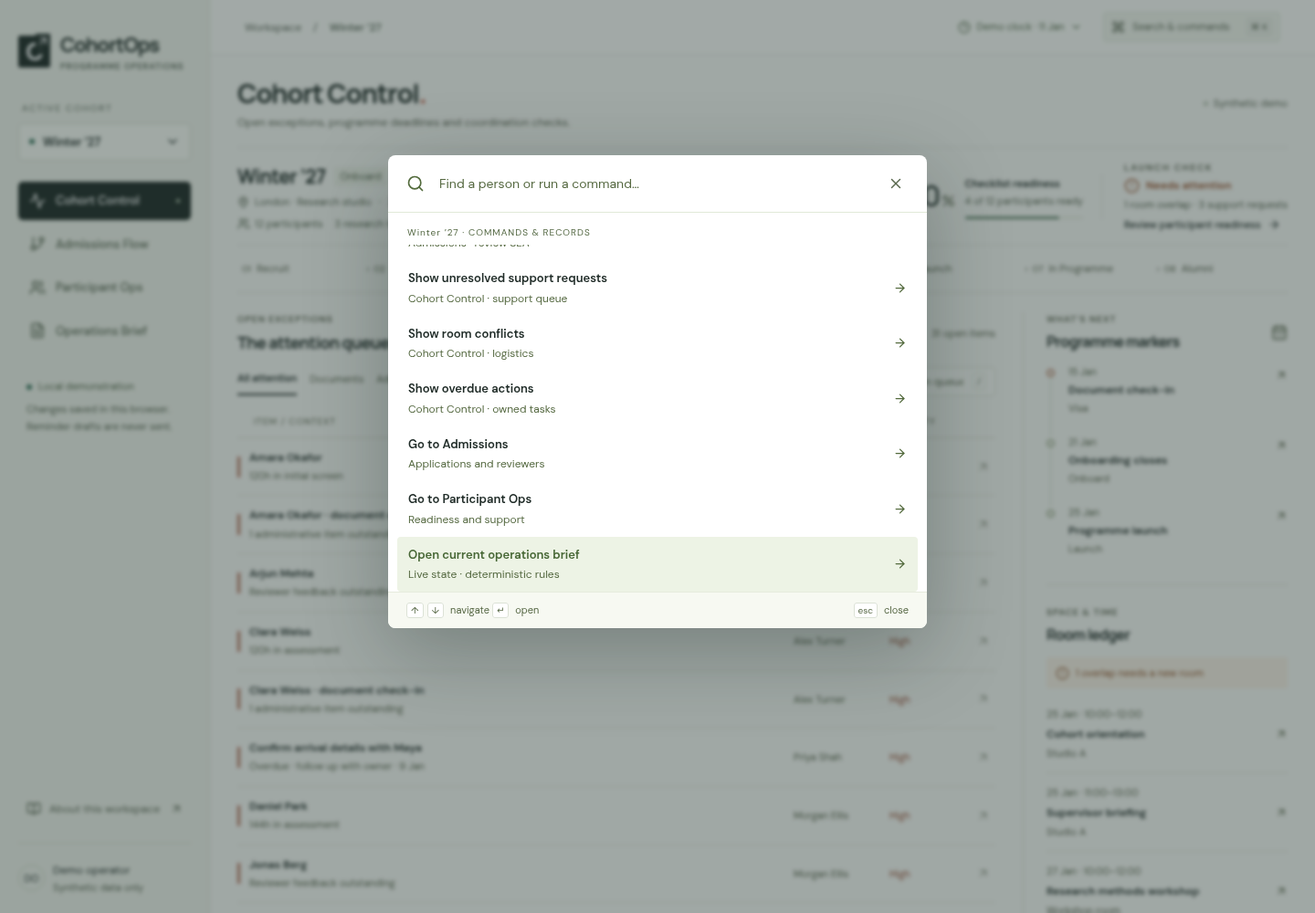
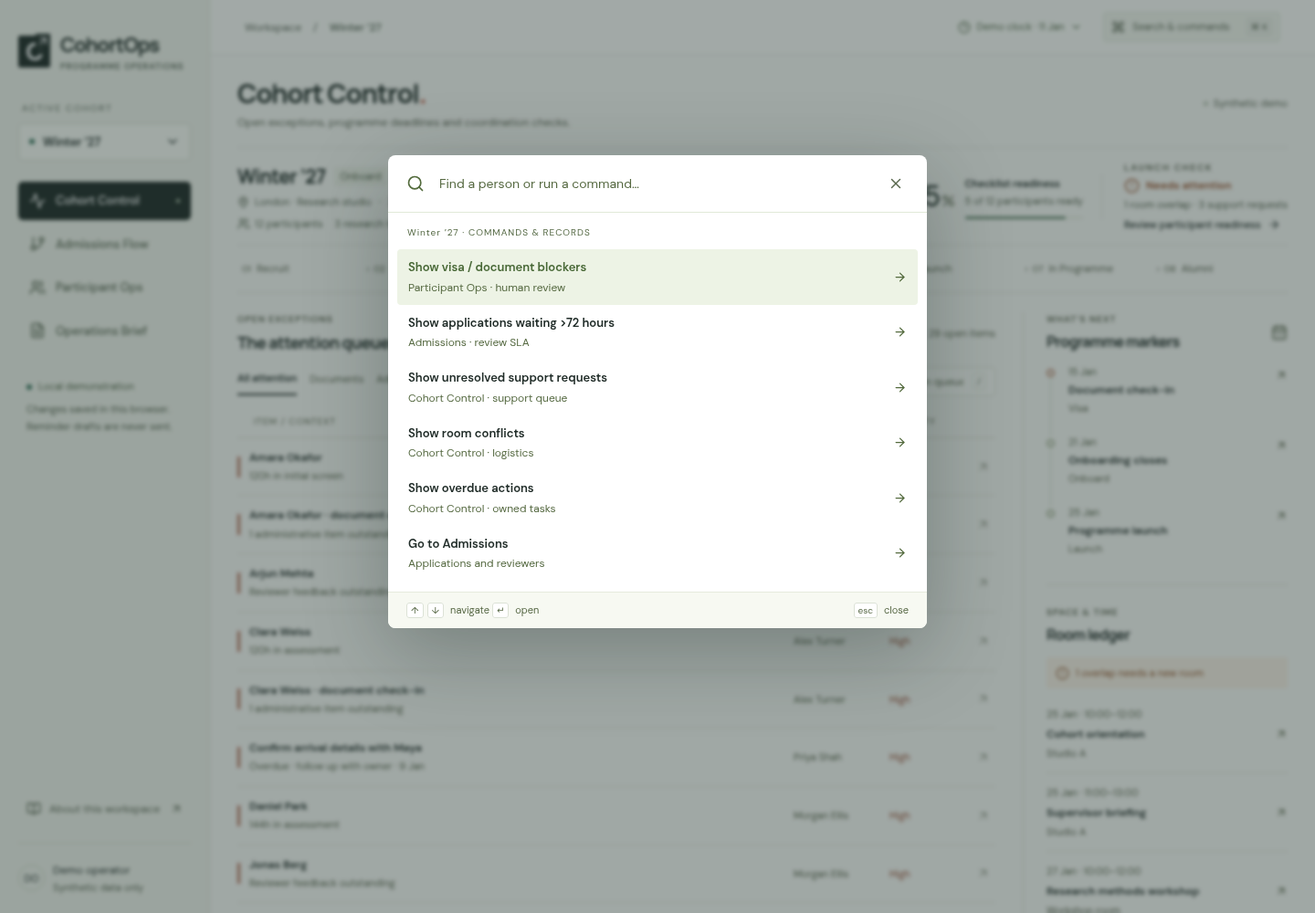
feat: finalize CohortOps recruiter materials and deployment readiness

Changed region(s): [[0.2812, 0.248, 0.7188, 0.651]]

diff --git a/e2e/final-qa.spec.ts b/e2e/final-qa.spec.ts
@@ -1,0 +1,112 @@
+import { test, expect } from "./fixtures";
+
+test("filters, milestones, invalid bookings and owned actions retain operational meaning", async ({
+  page,
+}) => {
+  await page.goto("/");
+  await page.getByRole("button", { name: "Documents", exact: true }).click();
+  await expect(page.locator(".queue-row")).toHaveCount(5);
+  await page.getByLabel("Search attention queue…").fill("Maya");
+  await expect(page.locator(".queue-row")).toHaveCount(1);
+  await page
+    .getByRole("button", { name: "Clear filters", exact: true })
+    .click();
+  await page
+    .locator(".timeline")
+    .getByRole("button", { name: /Document check-in/ })
+    .click();
+  await expect(page.locator(".active-filter")).toContainText("Visa");
+  await page
+    .getByRole("button", { name: "Clear filters", exact: true })
+    .click();
+  await page.getByRole("button", { name: /Room booking overlap/ }).click();
+  await page.getByLabel("Assigned room").selectOption("seminar");
+  await page.getByLabel("Assigned room").selectOption("studio");
+  await expect(page.getByRole("status")).toContainText("already booked");
+  await expect(page.getByLabel("Assigned room")).toHaveValue("seminar");
+  await page.keyboard.press("Escape");
+  await page
+    .getByRole("button", { name: /Confirm arrival details with Maya/ })
+    .click();
+  await page.getByLabel("Assign owner").selectOption("Demo operator");
+  await page
+    .getByRole("button", { name: "Mark task complete", exact: true })
+    .click();
+  await page.keyboard.press("Escape");
+  await expect(
+    page
+      .locator(".work-queue")
+      .getByRole("button", { name: /Confirm arrival details with Maya/ }),
+  ).toHaveCount(0);
+  await page
+    .getByRole("button", { name: /Arrival coordination has no backup owner/ })
+    .click();
+  await page.getByRole("button", { name: "Acknowledge after review", exact: true }).click();
+  await expect(
+    page.getByRole("button", { name: "Review acknowledged" }),
+  ).toBeDisabled();
+});
+
+test("table filters, batch review safeguards, support links and current clipboard export work", async ({
+  page,
+  context,
+}) => {
+  await context.grantPermissions(["clipboard-read", "clipboard-write"]);
+  await page.goto("/");
+  await page
+    .getByRole("button", { name: "Admissions Flow", exact: true })
+    .click();
+  await page.getByRole("button", { name: /^Initial screen/ }).click();
+  await page.getByLabel("Filter reviewer").selectOption("Alex Turner");
+  await expect(page.locator("tbody tr")).toHaveCount(2);
+  await page.getByRole("button", { name: "Longest wait", exact: true }).click();
+  await expect(page.locator("tbody tr").first()).toContainText("Amara Okafor");
+  await page.getByLabel("Select all visible applicants").check();
+  await page.getByLabel("Batch destination").selectOption("Offer");
+  await page.getByRole("button", { name: "Move selected" }).click();
+  await page.getByRole("button", { name: "Cancel", exact: true }).click();
+  await expect(page.locator("tbody tr")).toHaveCount(2);
+  await page.getByRole("button", { name: "Move selected" }).click();
+  await page.getByRole("button", { name: "Confirm reviewer decision" }).click();
+  await expect(page.locator("tbody tr")).toHaveCount(0);
+  await page
+    .getByRole("button", { name: "Participant Ops", exact: true })
+    .click();
+  await page.getByLabel("Filter readiness").selectOption("ready");
+  await expect(page.locator("tbody tr")).toHaveCount(4);
+  await page.getByRole("button", { name: /^Support requests/ }).click();
+  await page
+    .getByRole("button", { name: /Travel documentation question/ })
+    .click();
+  await page.getByRole("button", { name: "Maya Chen", exact: true }).click();
+  await expect(page.getByLabel("Maya Chen checklist readiness")).toBeVisible();
+  await page
+    .locator(".inspector-linked")
+    .filter({ hasText: "Travel documentation question" })
+    .click();
+  await page.getByRole("button", { name: "Resolve support request" }).click();
+  await page
+    .getByRole("button", { name: "Human follow-up complete", exact: true })
+    .click();
+  await expect(
+    page.getByRole("button", { name: "Request resolved", exact: true }),
+  ).toBeDisabled();
+  await page.keyboard.press("Escape");
+  await page
+    .getByRole("button", { name: "Operations Brief", exact: true })
+    .click();
+  await page.getByRole("button", { name: "Copy briefing text" }).click();
+  const copied = await page.evaluate(() => navigator.clipboard.readText());
+  expect(copied).toContain("Amara Okafor moved to Offer");
+  expect(copied).toContain("Support request resolved after operator review");
+  expect(copied).toContain("Synthetic demonstration data");
+  await page
+    .locator(".brief-action")
+    .filter({ hasText: "confidential welfare conversation" })
+    .click();
+  await expect(
+    page.getByRole("heading", {
+      name: "Request for a confidential welfare conversation",
+    }),
+  ).toBeVisible();
+});

diff --git a/playwright.config.ts b/playwright.config.ts
@@ -3,21 +3,24 @@ import { existsSync } from "node:fs";
 const systemBrowser =
   process.env.PLAYWRIGHT_EXECUTABLE_PATH ??
   (existsSync("/usr/bin/chromium") ? "/usr/bin/chromium" : undefined);
+const publicBaseURL = process.env.PLAYWRIGHT_BASE_URL;
 export default defineConfig({
   testDir: "./e2e",
   fullyParallel: true,
   retries: 0,
   reporter: "list",
   use: {
-    baseURL: "http://127.0.0.1:3000",
+    baseURL: publicBaseURL ?? "http://127.0.0.1:3000",
     trace: "retain-on-failure",
     launchOptions: { executablePath: systemBrowser },
   },
   projects: [{ name: "chromium", use: { ...devices["Desktop Chrome"] } }],
-  webServer: {
-    command: "npm run start",
-    url: "http://127.0.0.1:3000",
-    reuseExistingServer: !process.env.CI,
-    timeout: 120000,
-  },
+  webServer: publicBaseURL
+    ? undefined
+    : {
+        command: "npm run start",
+        url: "http://127.0.0.1:3000",
+        reuseExistingServer: !process.env.CI,
+        timeout: 120000,
+      },
 });

diff --git a/tests/ui.test.tsx b/tests/ui.test.tsx
@@ -187,3 +187,16 @@ describe("CohortOps interaction refinements", () => {
     expect(useOpsStore.getState().data.now).toBe("2027-01-11T09:00:00.000Z");
   });
 });
+
+it("uses the demonstration clock year in the live brief after crossing a year boundary", () => {
+  const data = createSeed();
+  data.now = "2028-01-02T09:00:00.000Z";
+  useOpsStore.setState({ data, view: "brief" });
+  render(<Workspace />);
+  expect(document.querySelector(".brief-masthead")).toHaveTextContent(
+    "2 Jan 2028",
+  );
+  expect(document.querySelector(".brief-masthead")).not.toHaveTextContent(
+    "2027",
+  );
+});

diff --git a/e2e/fixtures.ts b/e2e/fixtures.ts
@@ -1,0 +1,20 @@
+import { test as base, expect } from "@playwright/test";
+
+export const test = base.extend<{ browserHealth: void }>({
+  browserHealth: [
+    async ({ page }, use) => {
+      const errors: string[] = [];
+      page.on("pageerror", (error) => errors.push(error.message));
+      page.on("console", (message) => {
+        if (message.type() === "error") errors.push(message.text());
+      });
+      await use();
+      expect(
+        errors,
+        "No uncaught exceptions or browser console errors",
+      ).toEqual([]);
+    },
+    { auto: true },
+  ],
+});
+export { expect };

diff --git a/features/OperationsBrief.tsx b/features/OperationsBrief.tsx
@@ -23,7 +23,9 @@ export function OperationsBrief() {
       <article className="brief-paper">
         <header className="brief-masthead">
           <span className="eyebrow">COHORTOPS / CURRENT STATE</span>
-          <span>{formatDate(s.data.now)} 2027</span>
+          <span>
+            {formatDate(s.data.now)} {new Date(s.data.now).getUTCFullYear()}
+          </span>
         </header>
         <div className="brief-title">
           <span className="brief-issue">LIVE OPERATIONAL BRIEF</span>

diff --git a/e2e/refinements.spec.ts b/e2e/refinements.spec.ts
@@ -1,4 +1,4 @@
-import { test, expect } from "@playwright/test";
+import { test, expect } from "./fixtures";
 import AxeBuilder from "@axe-core/playwright";
 
 test("desktop inspector keeps selected context interactive, readable and scroll position intact", async ({

diff --git a/e2e/accessibility.spec.ts b/e2e/accessibility.spec.ts
@@ -1,4 +1,4 @@
-import { test, expect } from "@playwright/test";
+import { test, expect } from "./fixtures";
 import AxeBuilder from "@axe-core/playwright";
 
 test("workspaces and working dialogs have no WCAG A/AA violations detected by axe", async ({

diff --git a/e2e/workflows.spec.ts b/e2e/workflows.spec.ts
@@ -1,4 +1,4 @@
-import { test, expect } from "@playwright/test";
+import { test, expect } from "./fixtures";
 test("document check-in updates the queue, checklist and persistent weekly brief", async ({
   page,
 }) => {

diff --git a/BUILD_STATUS.md b/BUILD_STATUS.md
@@ -11,34 +11,37 @@
 - Contextual record inspector: owner assignment, checklist/task completion, stage changes, room movement, sensitive support confirmation, risk acknowledgement, notes and unsent reminder drafts.
 - Real command palette, Ctrl+K / Cmd+K and search shortcuts, keyboard focus restoration, responsive navigation/tables, reduced motion, demo reset and time simulation.
 - All ten required documentation files, five refreshed screenshots and GitHub Actions quality-gate workflow.
-- Cloud environment install_script and start_skill saved in the review draft. Original package-manager network policy retained; no credentials required.
+- Recruiter demo guide, application copy with development-assistance disclosure, and exact Vercel deployment instructions. No runtime credentials required.
 
 ## Current
 - CohortOps refinement complete: desktop split inspector, compact status rail, live brief, accessible board moves, grouped demo controls, command focus and readable supporting text. Domain rules, dataset schemas, persistence and audit behavior are retained; filter reset notification is ephemeral UI state.
-- V1 implemented and verified in this cloud machine. Development and production startup validated with Node 24 and installed system Chromium.
-- Setup/startup draft saved; publication is user-owned and has not been performed. Restoration in a newly published task has not been tested.
+- Final code and recruiter packaging verified locally with Node 24 and system Chromium. The brief now derives its year from the demo clock; a regression test covers crossing into 2028.
+- Public deployment is blocked solely by Vercel account authentication. No hosting connector, CLI session, linked project or deployment credentials are available. See DEPLOYMENT.md for exact import settings and post-deployment QA; no public URL or public-test claim has been added.
 
 ## Validation evidence
 
 | Check | Result |
 | --- | --- |
-| Clean `npm ci` from lockfile | Passed |
+| Clean `npm ci` from lockfile | Previously passed; dependencies and lockfile unchanged in finalization |
 | ESLint | Passed, no lint warnings/errors |
 | TypeScript | Passed |
-| Vitest | 28 passed: 8 domain, 10 state/repository, 10 UI/integration |
+| Vitest | 29 passed: 8 domain, 10 state/repository, 11 UI/integration |
 | Next.js production build | Passed; application and icon prerendered |
-| Playwright production journeys | 9 passed, none skipped |
+| Playwright production journeys | 11 passed, none skipped |
 | Axe WCAG A/AA scan | No detected violations in four workspaces, desktop split inspector, tablet drawer, command dialog and demo controls |
 | Keyboard focus | Commands focus their destination; Escape restores focus; moved board controls retain keyboard focus |
 | Development startup | Hydration and hot-reload connection verified; loopback development origin explicitly configured |
 | Responsive | Mobile and tablet journeys pass; desktop split view preserves queue scroll; no document-width overflow |
+| External-URL runner mode | 2 representative journeys passed against the local production URL with local-server startup disabled; public host remains untested |
+| Browser health | Every production journey passed with zero console errors or uncaught exceptions |
+| Public-repository audit | No credential-pattern, private-key, local-path or generated-artifact matches in intentional source files |
 | Repository whitespace check | Passed |
 
-Tests found and fixed the strict 72-hour threshold, mobile command-button naming, secondary-text contrast and dialog focus restoration. Browser test selectors were corrected to distinguish audit text from transient notification text. The development origin correction follows the installed Next.js documentation. These outcomes are current-instance checks, not claims of deployment or cross-browser certification.
+Tests found and fixed the strict 72-hour threshold, mobile command-button naming, secondary-text contrast and dialog focus restoration. Browser test selectors were corrected to distinguish audit text from transient notification text. The development origin correction follows the installed Next.js documentation. Finalization also checked batch decisions, current clipboard export, source links, invalid room changes, ownership, task completion and risk acknowledgement. These outcomes are local checks, not claims of public deployment or cross-browser certification.
 
 ## Remaining
-- No required refinement implementation or local validation is outstanding. Five production screenshots refreshed; screenshot session recorded no browser errors and four fully visible queue rows at 1366 × 768.
-- Optional external publication/hosting; no external action is needed to run the local prototype.
+- No required code, recruiter material or local validation is outstanding. Five production screenshots recaptured and reviewed; the brief shows Maya’s completed checklist with no toast, and the command palette has intentional selection without clipped list entry. Visual checks covered 35 surface/viewport combinations at 390, 768, 1024, 1280, 1366 and 1440px, with no document-width overflow or browser errors.
+- Required public demo: sign in to Vercel, import Parthhhhhh30/lasr-scaleops with the documented defaults, deploy, and provide the production URL. Public end-to-end QA and the verified README live link must follow.
 - Production roadmap: server-backed repository, authorization, protected documents, concurrent transactions, communication review/delivery tracking and calendar integration.
 - Broader assistive-technology and Firefox/WebKit validation before production use.
 

diff --git a/TEST_PLAN.md b/TEST_PLAN.md
@@ -14,28 +14,32 @@
 
 ## UI/integration proof
 
-`tests/ui.test.tsx`: cohort switch, lifecycle filters, applicant search/inspector stage movement, participant completion and live readiness, support resolution and brief recomputation, Ctrl+K command execution and offer confirmation; live brief labels; complete filter clearing; direct board moves and confirmation; grouped demo controls.
+`tests/ui.test.tsx`: cohort switch, lifecycle filters, applicant search/inspector stage movement, participant completion and live readiness, support resolution and brief recomputation, Ctrl+K command execution and offer confirmation; live brief labels; complete filter clearing; direct board moves and confirmation; grouped demo controls; brief date after crossing a year boundary.
 
 ## Browser proof
 
-Nine Playwright production-server journeys:
+Eleven Playwright production-server journeys:
 
 1. Document check-in → 100% readiness → blocker removal → brief event → refresh persistence.
 2. Room overlap resolution → access support closure → reviewer SLA command → stage reset and note → live brief.
 3. Cohort change → board → sensitive-case cancellation → clock simulation → reset.
 4. Mobile navigation → accessible command palette → brief → no document-width overflow.
 5. Axe WCAG A/AA scans of all four workspaces, participant inspector and command menu; keyboard focus and Escape restoration.
-
 6. Desktop split inspector → resized interactive workspace → selected records → Escape and queue scroll preservation.
 7. Accessible board move → stage clock reset → Offer/Accepted confirmation → keyboard focus → audit and refresh persistence.
 8. Live brief command → destination focus → audited demo advance → record command focus.
 9. Tablet modal drawer → background isolation → reduced motion → accessibility and no width overflow.
 
+10. Category/search/lifecycle filters → invalid room move rejected → owner reassignment → task completion and risk acknowledgement.
+11. Reviewer/stage/name filters → batch Offer cancellation and confirmation → readiness filtering → support cross-navigation and human closure → current clipboard export and brief source link.
+
+Every journey fails on uncaught browser exceptions or console errors via `e2e/fixtures.ts`. Set `PLAYWRIGHT_BASE_URL` to run the same journeys against a real public deployment without starting a local server; see [DEPLOYMENT.md](DEPLOYMENT.md).
+
 Use the installed system Chromium where available; otherwise install a Playwright browser or set `PLAYWRIGHT_EXECUTABLE_PATH`. Each test has its own browser context/storage. Tests inspect user-visible outcomes and do not accept an empty or skipped suite as proof. Browser error console, screenshots, focus flow and automated accessibility scans complement the tests.
 
 ## Manual/recruiter walkthrough
 
-Open Winter → search Maya → complete requirements → inspect support history → review weekly brief. Change cohort and verify counts. Try an overlapping room choice and confirm rejection. Queue a reminder twice and verify one draft. Review synthetic-data and AI/legal boundary copy. Check keyboard focus and Escape, tablet layout, mobile table scrolling and reduced motion.
+Follow [DEMO_GUIDE.md](DEMO_GUIDE.md) for the exact 60–90 second route. Open Winter → search Maya → complete requirements → inspect support history → review weekly brief. Change cohort and verify counts. Try an overlapping room choice and confirm rejection. Queue a reminder twice and verify one draft. Review synthetic-data and AI/legal boundary copy. Check keyboard focus and Escape, tablet layout, mobile table scrolling and reduced motion.
 
 ## Remaining production validation
 
@@ -43,4 +47,6 @@ Firefox/WebKit, real assistive-technology evaluation, concurrent editing, permis
 
 ## Verified outcome
 
-Final run in this cloud machine: lint, typecheck and build passed; all 28 Vitest tests and all 9 Playwright tests passed, none skipped. Axe detected no WCAG A/AA violations in the scanned surfaces. This is automated evidence, not a claim of complete accessibility certification.
+Final run in this cloud machine: lint, typecheck and build passed; all 29 Vitest tests and all 11 Playwright tests passed, none skipped. Axe detected no WCAG A/AA violations in the scanned surfaces. This is automated evidence, not a claim of complete accessibility certification.
+
+Final visual review covered 35 surface/viewport combinations at widths 390–1440px, including every inspector kind, Admissions board/table, support, commands and demo controls. The five intentional screenshots are captured from a production server; the brief waits for the completion toast to disappear. Two representative journeys also passed in external-URL runner mode against the local production server. No public deployment has yet been tested.

diff --git a/APPLICATION_COPY.md b/APPLICATION_COPY.md
@@ -1,0 +1,31 @@
+# Application-ready project wording
+
+Use only statements you can personally explain and defend. The project used Codex-assisted development; these drafts do not claim that every line was manually written. Deployment should be described as live only after a public URL has been verified.
+
+## A. CV project entry
+
+**CohortOps — programme operations workflow prototype**
+
+- Defined and built, with Codex-assisted development, four connected workflows covering admissions coordination, participant readiness, support and operational reporting across three synthetic cohorts.
+- Implemented and validated deterministic review-age, overdue-action, document-blocker and room-conflict rules, with browser-local persistence and visible audit events linking actions to changed operational state.
+- Designed explicit human-review safeguards for admissions and sensitive support, accessible record inspectors and keyboard commands; kept reminder drafts unsent and candidate scoring outside scope.
+
+## B. Short application-form description
+
+I built CohortOps as an independent prototype around the LASR Programme Operations Associate role to explore how a small team could coordinate growing research cohorts. It connects an exception queue, admissions stages, participant checklists, support requests and a live operations brief. Deterministic rules expose missing information, ageing reviews and booking conflicts, while sensitive decisions remain human-owned. I defined the operating problem, workflow requirements, safeguards, product decisions and testing standard, using Codex-assisted development for implementation and iteration. The project demonstrates operational systems thinking and explainable automation using fictional data; it does not claim LASR adoption or measured business impact.
+
+## C. LinkedIn / GitHub project description
+
+CohortOps is an independent programme operations prototype inspired by the LASR Programme Operations Associate role. Four connected workspaces turn synthetic admissions, readiness, support and logistics records into owned exceptions and a live deterministic brief. Built with Next.js, TypeScript and Codex-assisted development, it demonstrates audited workflow changes and explicit human-decision boundaries without candidate scoring or a generative AI integration.
+
+## D. Interview explanation
+
+**Why did you build this?**
+
+“I wanted to make the coordination work in a programme operations role concrete: missing documents, reviewer handoffs, arrivals, access requests and booking conflicts. I defined a workflow where an operator can see an exception, identify its owner, act on its source record and immediately see the result. It is a fictional demonstration around the role, not a claim about LASR’s internal processes.”
+
+**What did you personally learn/build?**
+
+“I defined the operating problem, requirements, safeguards, testing standard and product decisions. I used Codex-assisted development to implement and iterate the Next.js and TypeScript prototype, so I would not claim to have manually written every line. The work helped me make distinctions such as checklist readiness versus legal eligibility, recording a reviewer’s decision versus automating selection, and a deterministic live brief versus model-generated text. I can demonstrate those choices through the workflows and tests. The next production step would be authenticated server-side persistence and permissions, rather than adding AI for its own sake.”
+
+Adjust the learning statement to your actual experience before submitting it. Be ready to explain the pure OpsEngine, local repository boundary, stage clock reset, human confirmations and limits of browser-owned audit data.

diff --git a/DEMO_GUIDE.md b/DEMO_GUIDE.md
@@ -1,0 +1,24 @@
+# CohortOps: 60–90 second recruiter walkthrough
+
+Use a desktop window at least 1280px wide. Start from Winter ’27 in Cohort Control. If you have already explored, open **Demo controls → Reset demo state → Reset demo data** first. All names and policies are fictional. Changes persist in this browser only.
+
+| Time | Exact action | Suggested explanation and visible result |
+| --- | --- | --- |
+| 0–10s | Stay in Cohort Control; point to the queue, owner and priority columns. | “I designed this around programme coordination handoffs. The starting point is what needs attention and who owns it, rather than headline metrics.” |
+| 10–30s | Search the attention queue for **Maya**. Open **Maya Chen · document check-in**. Check **Identity document received**, **Visa/admin information reviewed by coordinator**, **Workspace access confirmed**, and **Orientation attendance confirmed**. | “These flags record checks already performed by a human. Maya moves from 20% to 100% checklist readiness; the document exception disappears while the desktop workspace remains usable.” |
+| 30–40s | Close the inspector; clear the search. | “The document queue has changed immediately. The cohort now has five checklist-ready participants instead of four. Checklist-ready does not mean legally eligible.” |
+| 40–60s | Open **Admissions Flow**. Search **Amara**. Open her record and change **Application stage → Offer**. Read the confirmation, then choose **Cancel**. Change the stage to **Interview** instead. | “Amara was waiting beyond the demo review window. Moving her to Interview resets the stage clock. Offer and acceptance require confirmation that a reviewer already made the decision; the application never scores or selects candidates.” |
+| 60–75s | Close the inspector. Open **Operations Brief**; scroll to **Changes this week**. | “This is live deterministic reporting: the checklist changes and Amara’s stage move are already in the audit history. There is no pretend AI generation step.” |
+| 75–90s | Press **Ctrl+K / ⌘K**, type **Maya**, show the matching record, then press **Escape**. | “Records and actions are reachable from the keyboard. The principle is deterministic automation where safe, human judgement where sensitive.” |
+
+The remaining owned task to confirm Maya’s arrival is separate from her checklist and may still appear. Do not imply that completing documents closes every related action.
+
+## What not to overclaim
+
+- This is an independent prototype inspired by the LASR Programme Operations Associate role, not a LASR deployment, internal process or endorsement.
+- The 72-hour review window is a demonstration policy. No business savings or programme outcomes have been measured.
+- No generative model runs in the application. Reminder drafts are fixed templates and remain unsent.
+- Browser-local persistence and editable audit records demonstrate workflows; they are not institutional security or a multi-user backend.
+- The implementation used Codex-assisted development. Discuss the operating requirements, safeguards, product decisions and validation honestly.
+
+For a longer walkthrough, resolve **Room booking overlap** by choosing **Seminar room**, then inspect its changed brief and audit entry. See [README.md](README.md) for further interactions and [APPLICATION_COPY.md](APPLICATION_COPY.md) for application wording.
